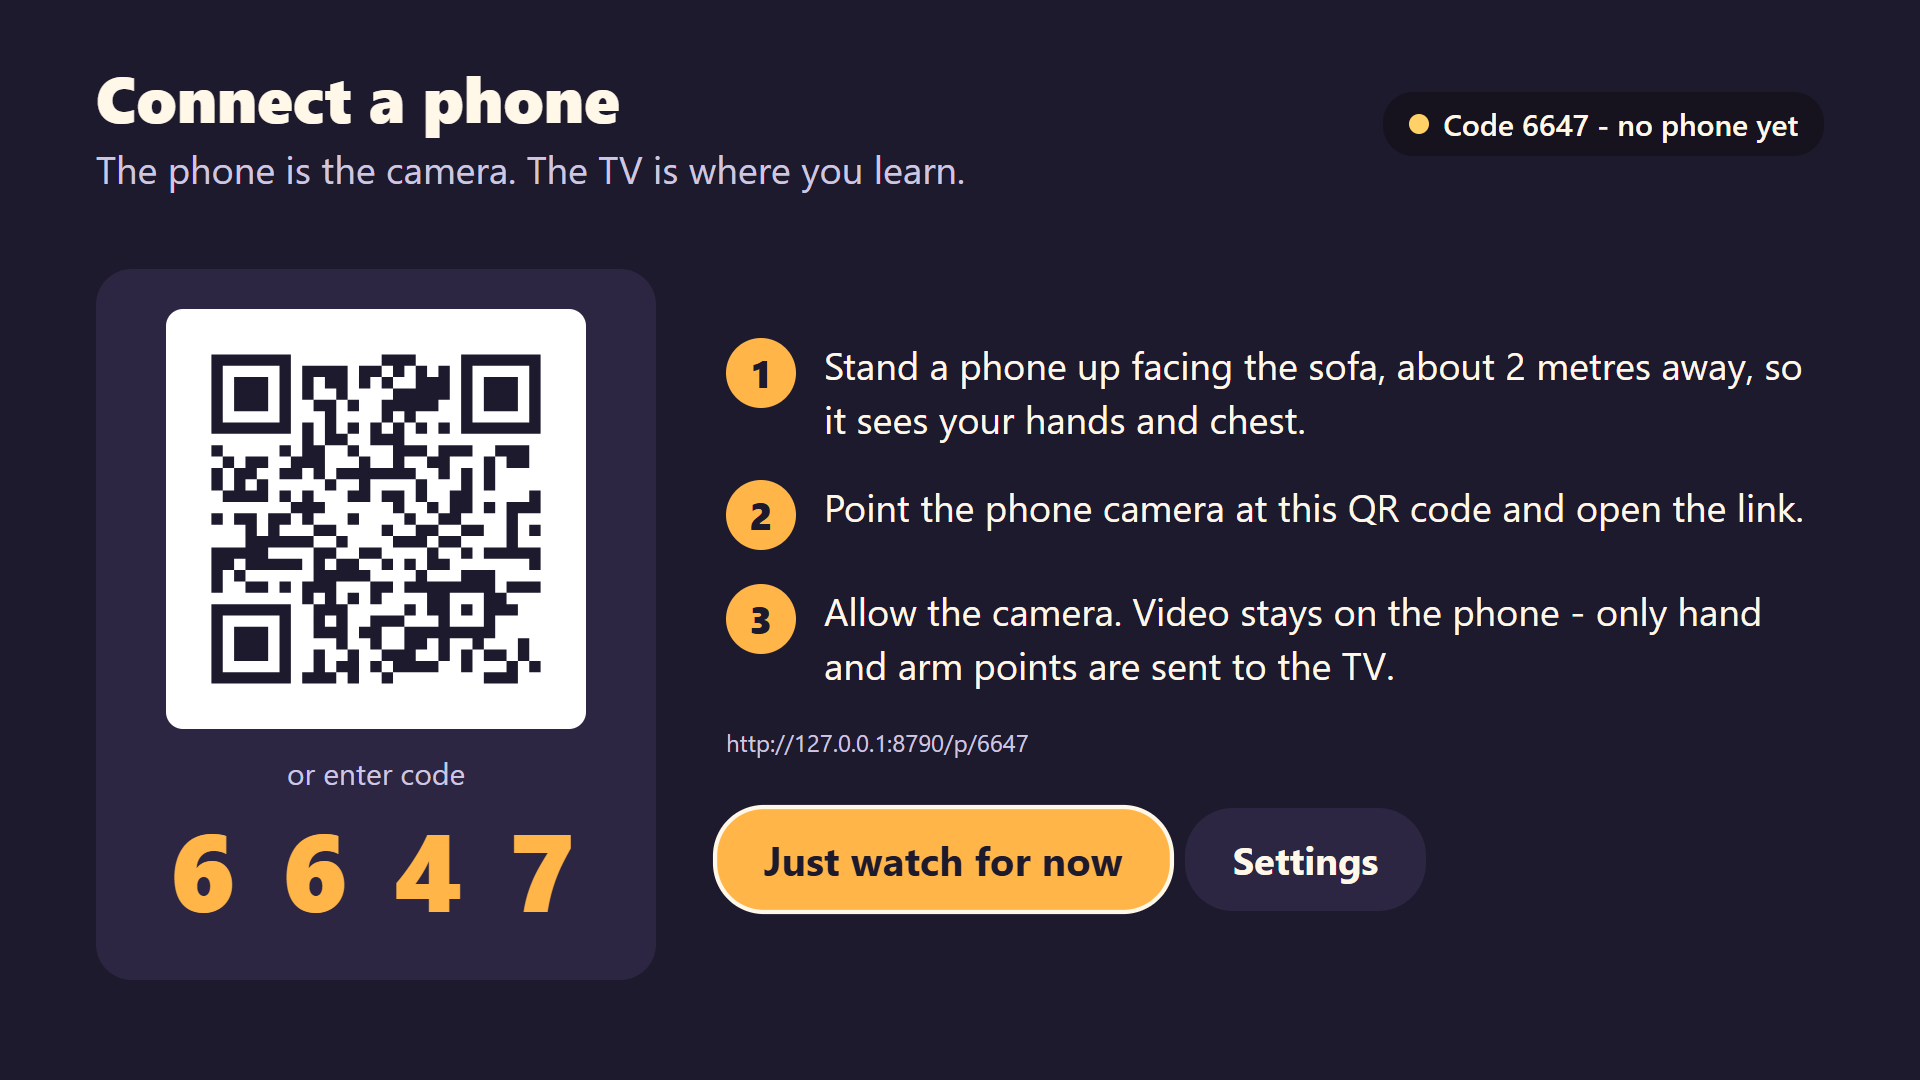
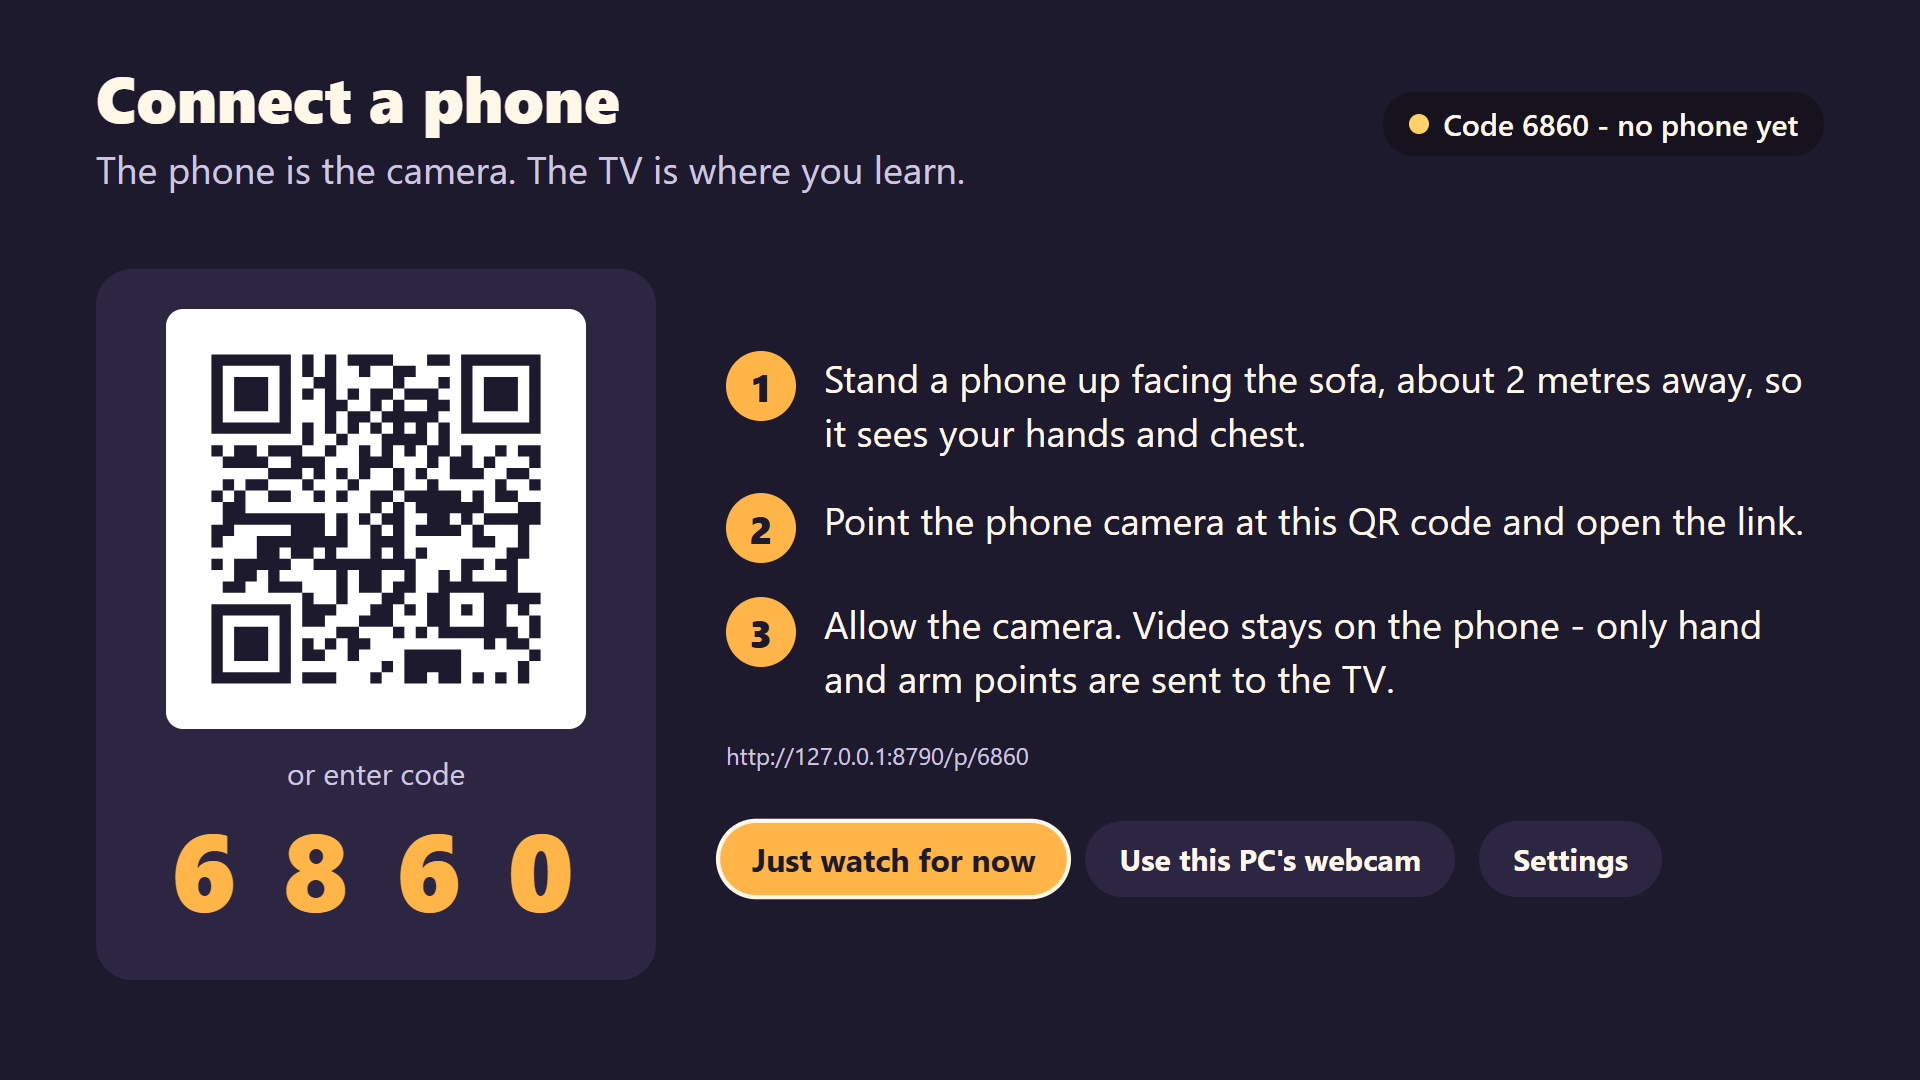
TV app: real GISLR reference signs, credits, live-trial launcher

diff --git a/tv/src/screens/PairScreen.tsx b/tv/src/screens/PairScreen.tsx
@@ -1,5 +1,5 @@
 import React, { useEffect } from 'react';
-import { StyleSheet, Text, View } from 'react-native';
+import { Platform, StyleSheet, Text, View } from 'react-native';
 import { DefaultFocus, SpatialNavigationRoot, SpatialNavigationView } from 'react-tv-space-navigation';
 import { QRCode } from '../components/QRCode';
 import { FocusButton, Header, Screen } from '../components/ui';
@@ -7,6 +7,8 @@ import { conn, useConn } from '../net/connection';
 import { speak } from '../net/voice';
 import { useRouter } from '../nav/router';
 import { colors, s, type } from '../theme';
+
+const WEB = Platform.OS === 'web';
 
 export function PairScreen() {
   const c = useConn();
@@ -54,12 +56,21 @@ export function PairScreen() {
           <Step n={2} text="Point the phone camera at this QR code and open the link." />
           <Step n={3} text="Allow the camera. Video stays on the phone - only hand and arm points are sent to the TV." />
           {c.phoneUrl ? <Text style={styles.url}>{c.phoneUrl}</Text> : null}
-          <SpatialNavigationRoot>
+          {/* keyed: the webcam button appears once a code exists, and spatial-nav orders nodes by mount time */}
+          <SpatialNavigationRoot key={WEB && c.code ? 'with-webcam' : 'plain'}>
             <SpatialNavigationView direction="horizontal" style={styles.buttons}>
               <DefaultFocus>
-                <FocusButton label={isRoot ? 'Just watch for now' : 'Back'} onSelect={leave} />
+                <FocusButton small={WEB} label={isRoot ? 'Just watch for now' : 'Back'} onSelect={leave} />
               </DefaultFocus>
-              <FocusButton label="Settings" onSelect={() => router.push({ name: 'settings' })} />
+              {Platform.OS === 'web' && c.code ? (
+                // Web/live-trial only: use this computer's webcam as "the phone" (camera works on http://localhost).
+                <FocusButton
+                  small
+                  label="Use this PC's webcam"
+                  onSelect={() => window.open(`${conn.httpBase()}/p/${c.code}`, 'first-signs-phone', 'width=900,height=800')}
+                />
+              ) : null}
+              <FocusButton small={WEB} label="Settings" onSelect={() => router.push({ name: 'settings' })} />
             </SpatialNavigationView>
           </SpatialNavigationRoot>
         </View>

diff --git a/tv/scripts/sync-model.js b/tv/scripts/sync-model.js
@@ -48,8 +48,42 @@ function compactRef(ref) {
     const f = frames[Math.min(frames.length - 1, Math.round((k * fps) / FPS_OUT))] || {};
     out.push({ p: compactPose(f.pose), l: compactHand(f.left), r: compactHand(f.right) });
   }
+  fillGaps(out);
   const aspect = Number(ref.aspect);
   return { fps: FPS_OUT, ...(aspect > 0 ? { aspect } : {}), frames: out };
+}
+
+// MediaPipe drops a hand (or an elbow's visibility) for a frame or two, which makes the replay flicker.
+// Bridge short gaps (<= MAX_GAP output frames, ~0.4 s) by holding the nearest real value; longer gaps stay empty.
+const MAX_GAP = 6;
+function fillGaps(frames) {
+  const bridge = (get, set) => {
+    let last = -1;
+    for (let i = 0; i < frames.length; i++) {
+      if (get(i) == null) continue;
+      const gap = i - last - 1;
+      if (gap > 0 && gap <= MAX_GAP) {
+        for (let j = last + 1; j < i; j++) set(j, last >= 0 && j - last <= i - j ? get(last) : get(i));
+      }
+      last = i;
+    }
+    const tail = frames.length - 1 - last;
+    if (last >= 0 && tail > 0 && tail <= MAX_GAP) for (let j = last + 1; j < frames.length; j++) set(j, get(last));
+  };
+  for (const h of ['l', 'r']) bridge((i) => frames[i][h], (i, v) => (frames[i][h] = v));
+  for (let k = 0; k < POSE_IDX.length; k++) {
+    bridge(
+      (i) => {
+        const p = frames[i].p;
+        return p && p[k * 2] >= 0 ? [p[k * 2], p[k * 2 + 1]] : null;
+      },
+      (i, v) => {
+        if (!frames[i].p) frames[i].p = new Array(POSE_IDX.length * 2).fill(-1);
+        frames[i].p[k * 2] = v[0];
+        frames[i].p[k * 2 + 1] = v[1];
+      }
+    );
+  }
 }
 
 function parseSigns(raw) {

diff --git a/tv/scripts/serve-web.js b/tv/scripts/serve-web.js
@@ -1,0 +1,37 @@
+#!/usr/bin/env node
+// Minimal static server for the exported TV web build (no dependencies).
+//   node scripts/serve-web.js [--port 8091] [--dir dist-web]
+const http = require('http');
+const fs = require('fs');
+const path = require('path');
+
+const arg = (n, d) => {
+  const i = process.argv.indexOf(`--${n}`);
+  return i > 0 ? process.argv[i + 1] : d;
+};
+const PORT = Number(arg('port', 8091));
+const ROOT = path.resolve(__dirname, '..', arg('dir', 'dist-web'));
+const TYPES = {
+  '.html': 'text/html; charset=utf-8',
+  '.js': 'text/javascript; charset=utf-8',
+  '.json': 'application/json',
+  '.css': 'text/css',
+  '.png': 'image/png',
+  '.ico': 'image/x-icon',
+  '.ttf': 'font/ttf',
+  '.svg': 'image/svg+xml',
+};
+
+http
+  .createServer((req, res) => {
+    const url = decodeURIComponent(new URL(req.url, 'http://x').pathname);
+    let file = path.join(ROOT, url);
+    if (!file.startsWith(ROOT)) {
+      res.writeHead(403);
+      return res.end();
+    }
+    if (!fs.existsSync(file) || fs.statSync(file).isDirectory()) file = path.join(ROOT, 'index.html');
+    res.writeHead(200, { 'Content-Type': TYPES[path.extname(file)] || 'application/octet-stream', 'Cache-Control': 'no-cache' });
+    fs.createReadStream(file).pipe(res);
+  })
+  .listen(PORT, '127.0.0.1', () => console.log(`[serve-web] http://localhost:${PORT}  (${ROOT})`));

diff --git a/tv/src/screens/PackScreen.tsx b/tv/src/screens/PackScreen.tsx
@@ -69,8 +69,8 @@ export function PackScreen({ packId }: { packId: string }) {
 
 const styles = StyleSheet.create({
   empty: { color: colors.textDim, fontSize: type.body },
-  row: { flexDirection: 'row', marginLeft: s(-14) },
-  card: { width: s(400), height: s(250) },
+  row: { flexDirection: 'row', paddingLeft: s(6) },
+  card: { width: s(392), height: s(250) },
   cardBody: { padding: s(28), flex: 1, justifyContent: 'center' },
   label: { color: colors.text, fontSize: s(60), fontWeight: '800' },
   stars: { fontSize: type.body, marginTop: s(8) },

diff --git a/tv/README.md b/tv/README.md
@@ -77,6 +77,14 @@ The release build is signed with the debug key, which is fine for sideloading bu
 5. Useful while testing: `adb -s <ip>:5555 logcat *:S ReactNativeJS:V ReactNative:V` and
    `adb -s <ip>:5555 exec-out screencap -p > shot.png`.
 
+## Live trial on this PC (real server, webcam as the phone)
+```
+powershell -ExecutionPolicy Bypass -File tv\scripts\live-trial.ps1      # add -Tunnel to also pair a real phone over https
+```
+This starts `server/` on :8788 (or reuses one that's already running) and serves the TV web build on :8091, then opens
+the TV in Chrome. On the pairing screen, choose **Use this PC's webcam**: it opens `http://localhost:8788/p/<code>`, and the
+camera works on localhost. Then press **Start camera** on that page. Controls: arrows, Enter, Escape.
+
 ## Test without the stick or the real server
 - **Stub server:** `node scripts/stub-server.js --fake-phone [--port 8790]` implements PROTOCOL.md section 1. It pairs a
   fake phone after a couple of seconds, streams synthetic frames at 15 fps, answers each `attempt` with
